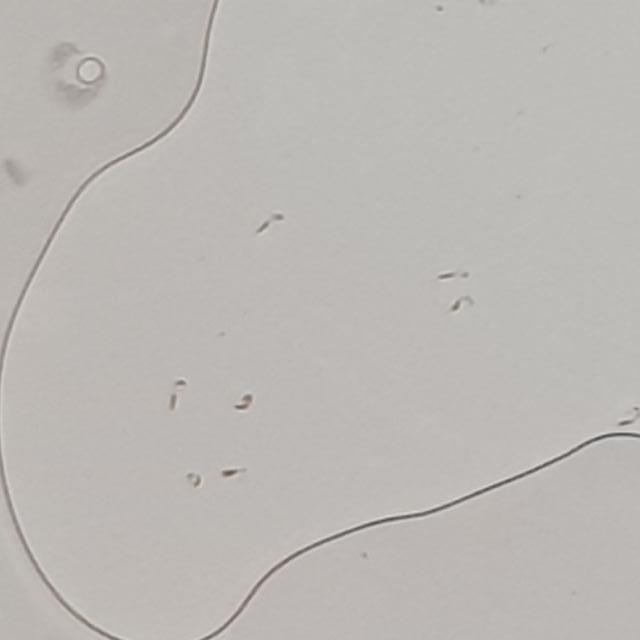
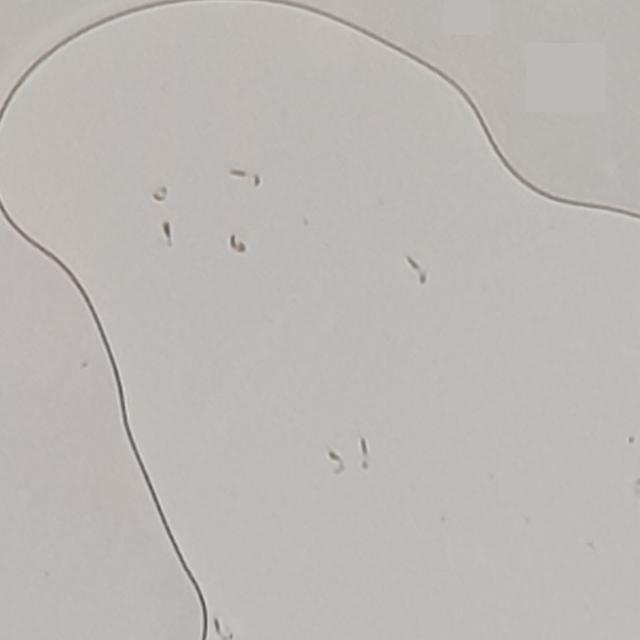
add masking combined code

diff --git a/src/tools/manual_data_aug.py b/src/tools/manual_data_aug.py
@@ -11,8 +11,8 @@ from PIL import Image, ImageOps
 def rotate_image_ninety(image_str, label_str, img_folder_name, lab_folder_name, image_folder_save, lab_folder_save):
     ''' rotates image by 90 degrees-clockwise
     Args:
-        image (str): string of image name
-        label (str): string of label name  
+        image_str (str): string of image name
+        label_str (str): string of label name  
         img_folder_name (str): location of original images
         lab_folder_name (str): location of original labels
         image_folder_save (str): location of images to save
@@ -20,7 +20,7 @@ def rotate_image_ninety(image_str, label_str, img_folder_name, lab_folder_name, 
     
     Returns:
         (tuple): tuple contraining:
-            out_image: rotated image by 90 degrees
+            out: rotated image by 90 degrees
             labels_copy: dataframe for rotated image by 90 degrees
     '''
     #read original image
@@ -61,13 +61,13 @@ def rotate_image_ninety(image_str, label_str, img_folder_name, lab_folder_name, 
     labels_copy[['y1', 'h']] = labels_copy[['y1', 'h']] / dim_x
     out_label = lab_folder_save+ label_str
     labels_copy.to_csv(out_label, header=None, index=None, sep=' ', mode='a')    
-    return out_image, labels_copy
+    return out, labels_copy
 
 def rotate_image_180(image_str, label_str, img_folder_name, lab_folder_name, image_folder_save, lab_folder_save):
     ''' rotates image by 180 degrees-clockwise
     Args:
-        image (str): string of image name
-        label (str): string of label name  
+        image_str (str): string of image name
+        label_str (str): string of label name  
         img_folder_name (str): location of original images
         lab_folder_name (str): location of original labels
         image_folder_save (str): location of images to save
@@ -116,13 +116,13 @@ def rotate_image_180(image_str, label_str, img_folder_name, lab_folder_name, ima
     labels_copy[['y1', 'h']] = labels_copy[['y1', 'h']] / dim_y
     out_label = lab_folder_save + label_str
     labels_copy.to_csv(out_label, header=None, index=None, sep=' ', mode='a')    
-    return out_image, labels_copy
+    return out, labels_copy
 
 def flip_image(image_str, label_str, img_folder_name, lab_folder_name, image_folder_save, lab_folder_save):
     ''' flips image to create mirror image
     Args:
-        image (str): string of image name
-        label (str): string of label name  
+        image_str (str): string of image name
+        label_str (str): string of label name  
         img_folder_name (str): location of original images
         lab_folder_name (str): location of original labels
         image_folder_save (str): location of images to save
@@ -171,7 +171,7 @@ def flip_image(image_str, label_str, img_folder_name, lab_folder_name, image_fol
     labels_copy[['y1', 'h']] = labels_copy[['y1', 'h']] / dim_y
     out_label = lab_folder_save + label_str
     labels_copy.to_csv(out_label, header=None, index=None, sep=' ', mode='a')  
-    return out_image, labels_copy
+    return out, labels_copy
 
 def overall_augmentation(random_number, image_str, label_str, \
                          img_folder_name, lab_folder_name, image_folder_save, lab_folder_save):
@@ -179,8 +179,8 @@ def overall_augmentation(random_number, image_str, label_str, \
     Args:
         random_number (int): int either 1, 2 or 3 to decide which augmentation
             technique to use
-        image (str): string of image name
-        label (str): string of label name  
+        image_str (str): string of image name
+        label_str (str): string of label name  
         img_folder_name (str): location of original images
         lab_folder_name (str): location of original labels
         image_folder_save (str): location of images to save

diff --git a/src/tools/masking_unwanted.py b/src/tools/masking_unwanted.py
@@ -1,0 +1,82 @@
+import argparse
+
+import os
+import numpy as np
+import math
+import pandas as pd
+import glob
+
+from PIL import Image, ImageOps
+
+def mask_image(image_str, label_str, img_folder_name, lab_folder_name, img_folder_save, lab_folder_save):
+    ''' rotates image by 90 degrees-clockwise
+    Args:
+        image_str (str): string of image name
+        label_str (str): string of label name  
+        img_folder_name (str): location of original images
+        lab_folder_name (str): location of original labels
+        image_folder_save (str): location of images to save
+        lab_folder_save (str): location of labels to save
+    
+    Returns:
+        (tuple): tuple contraining:
+            out: rotated image by 90 degrees
+            labels_copy: dataframe for rotated image by 90 degrees
+    '''
+    #read original image
+    image_str_open = img_folder_name + image_str
+    img = Image.open(image_str_open)
+    image = ImageOps.exif_transpose(img)
+    image_np = np.asarray(image)
+    
+    #read in original label
+    labels_str_open = lab_folder_name + label_str
+    labels = pd.read_csv(labels_str_open, sep=' ', names=['class', 'x1', 'y1', 'w', 'h'])
+    dim_x = image_np.shape[1]
+    dim_y = image_np.shape[0]
+    
+    # Rescale coordinates of labels from 0-1 to real image height and width
+    labels[['x1', 'w']] = labels[['x1', 'w']] * dim_x
+    labels[['y1', 'h']] = labels[['y1', 'h']] * dim_y
+    
+    # Create masked image to edit on
+    masked_image = np.copy(image_np)
+    
+    # Loop through each row of labels
+    for index, row in labels.iterrows():
+        # If class of label is masking class
+        if row['class'] == 4:
+            # Obtain bounding box
+            mid_x, mid_y, width_x, width_y = row[1:]
+            lower_x = max(0, math.floor( (float(mid_x) - 1/2 * float(width_x))))
+            upper_x = min(dim_x, math.floor( (float(mid_x) + 1/2 * float(width_x))))
+            lower_y = max(0, math.floor( (float(mid_y) - 1/2 * float(width_y))))
+            upper_y = min(dim_y, math.floor( (float(mid_y) + 1/2 * float(width_y))))
+
+            # For each colour channel, find the most common colour value and assign whole bounding box to that colour 
+            for i in range(3):
+                vals, counts = np.unique(image_np[:,:,i], return_counts=True)
+                index = np.argmax(counts)
+                masked_image[lower_y:upper_y+1,lower_x:upper_x+1,i] = vals[index]
+    
+    # Create and save masked image
+    out = Image.fromarray(masked_image)
+    out_image = img_folder_save + image_str
+    out.save(out_image)
+    
+    # Remove rows with labels 4
+    labels_copy = labels[labels["class"] != 4]
+    out_label = lab_folder_save + label_str
+    labels_copy.to_csv(out_label, header=None, index=None, sep=' ', mode='a')  
+    
+    return out, labels_copy
+
+
+img_folder_name = '../data/trial/images/train/'
+lab_folder_name = '../data/trial/labels/train/'
+img_folder_save = '../data/trial_save/images/train/'
+lab_folder_save = '../data/trial_save/labels/train/'
+value = 1
+img_name = '20210729_131410_0_2.jpg'
+lab_name = '20210729_131410_0_2.txt'
+
